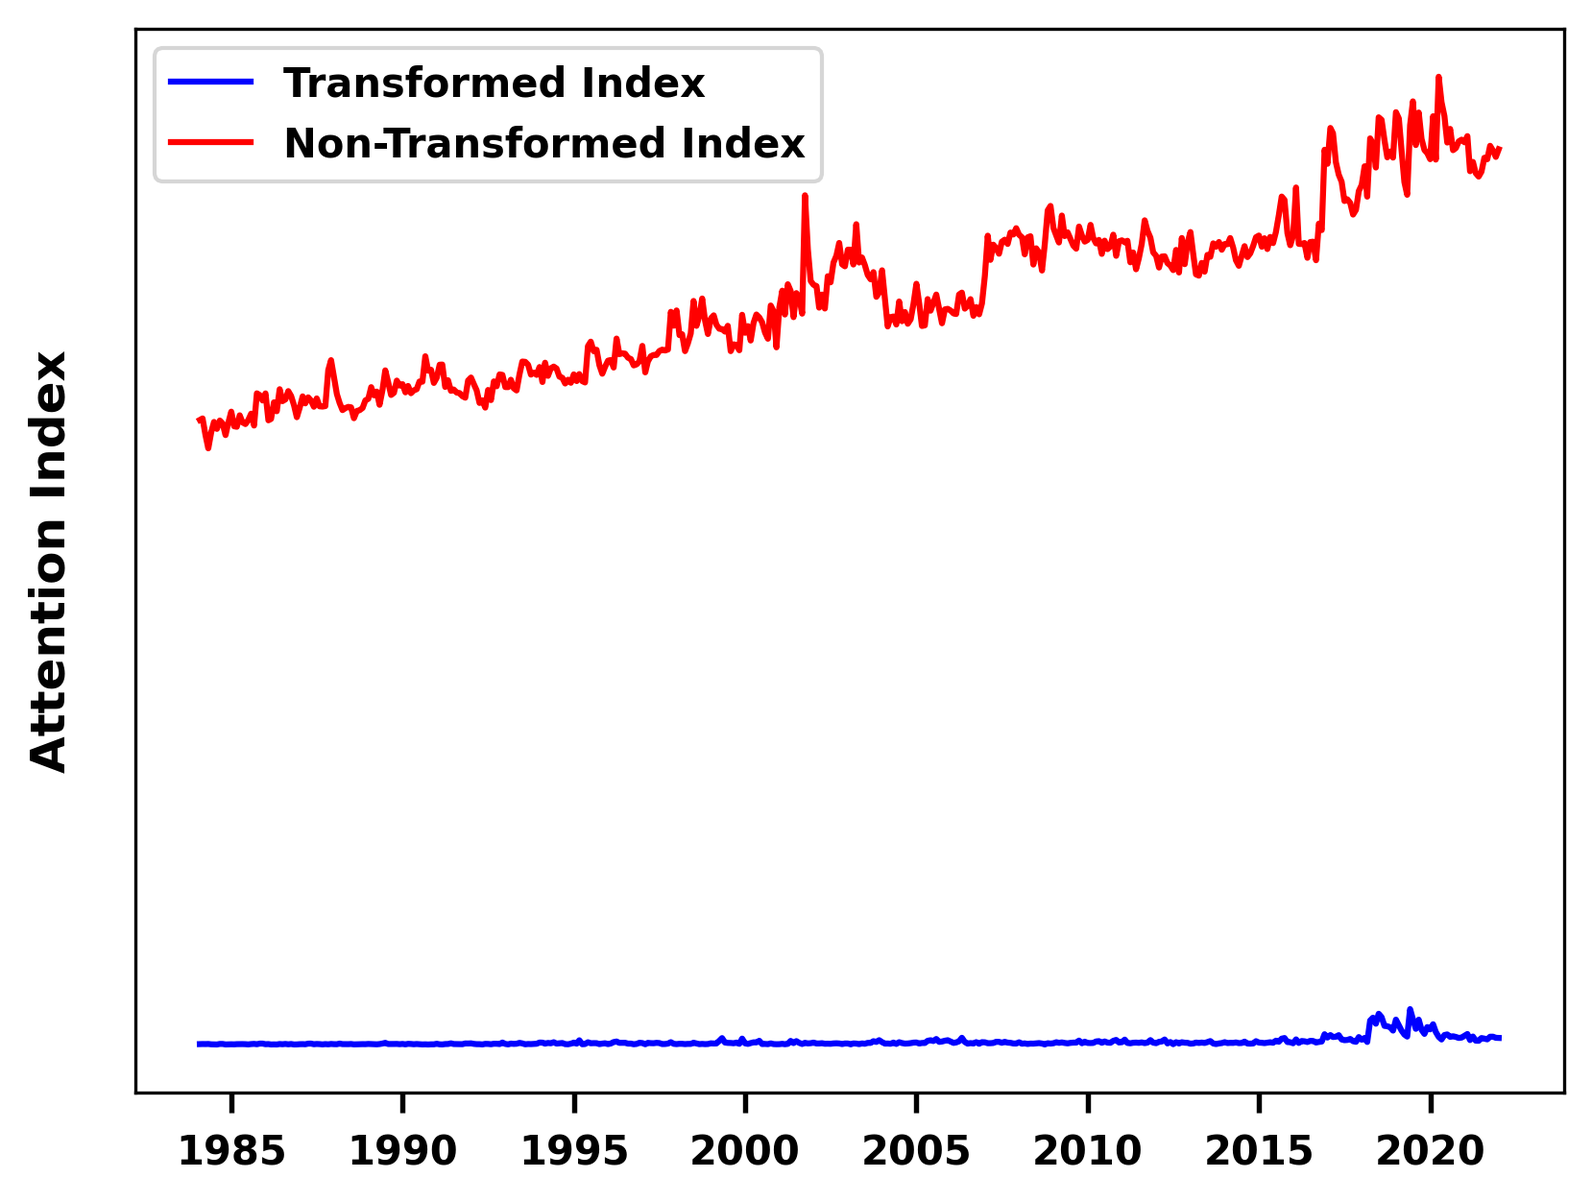
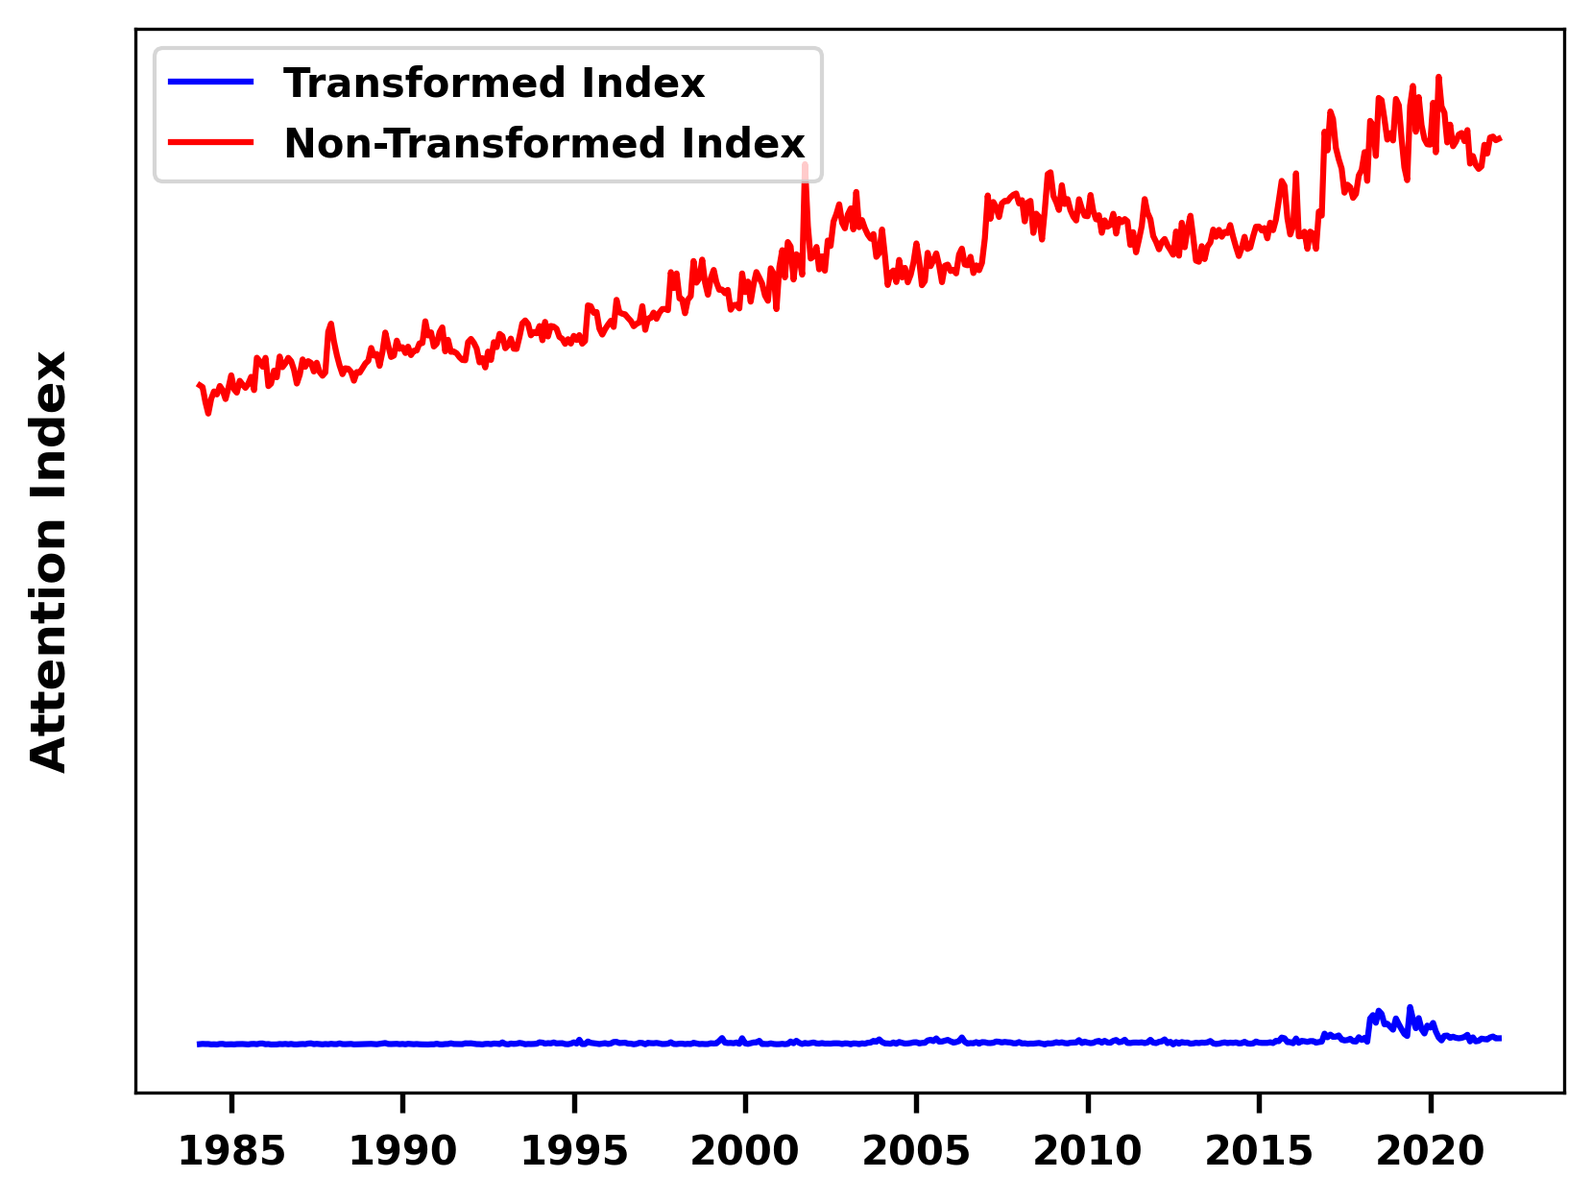
added stock market bubble and market crash

Changed region(s): [[0.123, 0.0623, 0.9536, 0.3738], [0.8613, 0.8411, 0.892, 0.8722]]

diff --git a/exec_research/class_generate/gen_emb.py b/exec_research/class_generate/gen_emb.py
@@ -357,66 +357,66 @@ if __name__ == "__main__":
     # # index = generate._join_index(index=index, file_path='esg_google_trend.parquet.brotli')
     # # generate.save(query=query, expanded_query=expanded_query, p_val=p_val, threshold=threshold, pearson=0, index_paper=index[['relu_score', 'official']], index_research=index[['relu_score', 'norm_score']], index_name_paper=['ESG', 'ESG (Google Trend)'], index_name_research=['Transformed', 'Non-Transformed'], output='esg_index')
 
-    # ------------------------------------------------------------------------------------------------------------------------------------------------------------------------------------------------
-    # ------------------------------------------------------------------------------------------------------------------------------------------------------------------------------------------------
-    print("-"*120)
-    query = 'ESG'
-    generate = GenEmb(query=query, info=False, vector_data=wsj_openai, vector_column=vector_column, article_data=wsj_art, interval=interval, p_val=p_val)
-    index, expanded_query, threshold = generate.generate_emb()
-    index = generate._join_index(index=index, file_path='esg_google_trend.parquet.brotli')
-    generate.save(query=query, expanded_query=expanded_query, p_val=p_val, threshold=threshold, pearson=0, index_paper=index[['relu_score', 'official']], index_research=index[['relu_score', 'norm_score']], index_name_paper=['ESG', 'ESG (Google Trend)'], index_name_research=['Transformed', 'Non-Transformed'], output='esg_index')
+    # # ------------------------------------------------------------------------------------------------------------------------------------------------------------------------------------------------
+    # # ------------------------------------------------------------------------------------------------------------------------------------------------------------------------------------------------
+    # print("-"*120)
+    # query = 'ESG'
+    # generate = GenEmb(query=query, info=False, vector_data=wsj_openai, vector_column=vector_column, article_data=wsj_art, interval=interval, p_val=p_val)
+    # index, expanded_query, threshold = generate.generate_emb()
+    # index = generate._join_index(index=index, file_path='esg_google_trend.parquet.brotli')
+    # generate.save(query=query, expanded_query=expanded_query, p_val=p_val, threshold=threshold, pearson=0, index_paper=index[['relu_score', 'official']], index_research=index[['relu_score', 'norm_score']], index_name_paper=['ESG', 'ESG (Google Trend)'], index_name_research=['Transformed', 'Non-Transformed'], output='esg_index')
+    #
+    # # ------------------------------------------------------------------------------------------------------------------------------------------------------------------------------------------------
+    # # ------------------------------------------------------------------------------------------------------------------------------------------------------------------------------------------------
+    # print("-"*120)
+    # query = 'US Economic Policy Uncertainty'
+    # generate = GenEmb(query=query, info=False, vector_data=wsj_openai, vector_column=vector_column, article_data=wsj_art, interval=interval, p_val=p_val)
+    # index, expanded_query, threshold = generate.generate_emb()
+    # index, pearson_corr = generate._compare_index(index=index, file_path='epu.parquet.brotli')
+    # generate.save(query=query, expanded_query=expanded_query, p_val=p_val, threshold=threshold, pearson=pearson_corr, index_paper=index[['relu_score', 'official']], index_research=index[['relu_score', 'norm_score']], index_name_paper=['US EPU', 'US EPU (Baker et al.)'], index_name_research=['Transformed', 'Non-Transformed'], output='usepu_index')
+    #
+    # # ------------------------------------------------------------------------------------------------------------------------------------------------------------------------------------------------
+    # # ------------------------------------------------------------------------------------------------------------------------------------------------------------------------------------------------
+    # print("-"*120)
+    # query = 'Inflation'
+    # generate = GenEmb(query=query, info=False, vector_data=wsj_openai, vector_column=vector_column, article_data=wsj_art, interval=interval, p_val=p_val)
+    # index, expanded_query, threshold = generate.generate_emb()
+    # index, pearson_corr = generate._compare_index(index=index, file_path='ir.parquet.brotli')
+    # generate.save(query=query, expanded_query=expanded_query, p_val=p_val, threshold=threshold, pearson=pearson_corr, index_paper=index[['relu_score', 'official']], index_research=index[['relu_score', 'norm_score']], index_name_paper=['Inflation', '5-Year Breakeven Inflation Rate (FRED)'], index_name_research=['Transformed', 'Non-Transformed'], output='inflation_index')
+    #
+    # # ------------------------------------------------------------------------------------------------------------------------------------------------------------------------------------------------
+    # # ------------------------------------------------------------------------------------------------------------------------------------------------------------------------------------------------
+    # print("-" * 120)
+    # query = 'Systemic Financial Stress'
+    # generate = GenEmb(query=query, info=False, vector_data=wsj_openai, vector_column=vector_column, article_data=wsj_art, interval=interval, p_val=p_val)
+    # index, expanded_query, threshold = generate.generate_emb()
+    # index, pearson_corr = generate._compare_index(index=index, file_path='fsi.parquet.brotli')
+    # generate.save(query=query, expanded_query=expanded_query, p_val=p_val, threshold=threshold, pearson=pearson_corr, index_paper=index[['relu_score', 'official']], index_research=index[['relu_score', 'norm_score']], index_name_paper=['Financial Stress', 'Financial Stress (Baker et al.)'], index_name_research=['Transformed', 'Non-Transformed'], output='fsi_index')
+    #
+    # # ------------------------------------------------------------------------------------------------------------------------------------------------------------------------------------------------
+    # # ------------------------------------------------------------------------------------------------------------------------------------------------------------------------------------------------
+    # print("-"*120)
+    # query = 'Economic Recession'
+    # generate = GenEmb(query=query, info=False, vector_data=wsj_openai, vector_column=vector_column, article_data=wsj_art, interval=interval, p_val=p_val)
+    # index, expanded_query, threshold = generate.generate_emb()
+    # index, pearson_corr = generate._compare_index(index=index, file_path='recession.parquet.brotli')
+    # generate.save(query=query, expanded_query=expanded_query, p_val=p_val, threshold=threshold, pearson=pearson_corr, index_paper=index[['relu_score', 'official']], index_research=index[['relu_score', 'norm_score']], index_name_paper=['Economic Recession', 'Economic Recession (Bybee et al.)'], index_name_research=['Transformed', 'Non-Transformed'], output='economicrecession_index')
 
-    # ------------------------------------------------------------------------------------------------------------------------------------------------------------------------------------------------
-    # ------------------------------------------------------------------------------------------------------------------------------------------------------------------------------------------------
-    print("-"*120)
-    query = 'US Economic Policy Uncertainty'
-    generate = GenEmb(query=query, info=False, vector_data=wsj_openai, vector_column=vector_column, article_data=wsj_art, interval=interval, p_val=p_val)
-    index, expanded_query, threshold = generate.generate_emb()
-    index, pearson_corr = generate._compare_index(index=index, file_path='epu.parquet.brotli')
-    generate.save(query=query, expanded_query=expanded_query, p_val=p_val, threshold=threshold, pearson=pearson_corr, index_paper=index[['relu_score', 'official']], index_research=index[['relu_score', 'norm_score']], index_name_paper=['US EPU', 'US EPU (Baker et al.)'], index_name_research=['Transformed', 'Non-Transformed'], output='usepu_index')
-
-    # ------------------------------------------------------------------------------------------------------------------------------------------------------------------------------------------------
-    # ------------------------------------------------------------------------------------------------------------------------------------------------------------------------------------------------
-    print("-"*120)
-    query = 'Inflation'
-    generate = GenEmb(query=query, info=False, vector_data=wsj_openai, vector_column=vector_column, article_data=wsj_art, interval=interval, p_val=p_val)
-    index, expanded_query, threshold = generate.generate_emb()
-    index, pearson_corr = generate._compare_index(index=index, file_path='ir.parquet.brotli')
-    generate.save(query=query, expanded_query=expanded_query, p_val=p_val, threshold=threshold, pearson=pearson_corr, index_paper=index[['relu_score', 'official']], index_research=index[['relu_score', 'norm_score']], index_name_paper=['Inflation', '5-Year Breakeven Inflation Rate (FRED)'], index_name_research=['Transformed', 'Non-Transformed'], output='inflation_index')
-
-    # ------------------------------------------------------------------------------------------------------------------------------------------------------------------------------------------------
-    # ------------------------------------------------------------------------------------------------------------------------------------------------------------------------------------------------
-    print("-" * 120)
-    query = 'Systemic Financial Stress'
-    generate = GenEmb(query=query, info=False, vector_data=wsj_openai, vector_column=vector_column, article_data=wsj_art, interval=interval, p_val=p_val)
-    index, expanded_query, threshold = generate.generate_emb()
-    index, pearson_corr = generate._compare_index(index=index, file_path='fsi.parquet.brotli')
-    generate.save(query=query, expanded_query=expanded_query, p_val=p_val, threshold=threshold, pearson=pearson_corr, index_paper=index[['relu_score', 'official']], index_research=index[['relu_score', 'norm_score']], index_name_paper=['Financial Stress', 'Financial Stress (Baker et al.)'], index_name_research=['Transformed', 'Non-Transformed'], output='fsi_index')
-
-    # ------------------------------------------------------------------------------------------------------------------------------------------------------------------------------------------------
-    # ------------------------------------------------------------------------------------------------------------------------------------------------------------------------------------------------
-    print("-"*120)
-    query = 'Economic Recession'
-    generate = GenEmb(query=query, info=False, vector_data=wsj_openai, vector_column=vector_column, article_data=wsj_art, interval=interval, p_val=p_val)
-    index, expanded_query, threshold = generate.generate_emb()
-    index, pearson_corr = generate._compare_index(index=index, file_path='recession.parquet.brotli')
-    generate.save(query=query, expanded_query=expanded_query, p_val=p_val, threshold=threshold, pearson=pearson_corr, index_paper=index[['relu_score', 'official']], index_research=index[['relu_score', 'norm_score']], index_name_paper=['Economic Recession', 'Economic Recession (Bybee et al.)'], index_name_research=['Transformed', 'Non-Transformed'], output='economicrecession_index')
-
-    # ------------------------------------------------------------------------------------------------------------------------------------------------------------------------------------------------
-    # ------------------------------------------------------------------------------------------------------------------------------------------------------------------------------------------------
-    print("-" * 120)
-    query = 'Market Crash'
-    generate = GenEmb(query=query, info=False, vector_data=wsj_openai, vector_column=vector_column, article_data=wsj_art, interval=interval, p_val=p_val)
-    index, expanded_query, threshold = generate.generate_emb()
-    generate.save(query=query, expanded_query=expanded_query, p_val=p_val, threshold=threshold, pearson=0, index_paper=index[['relu_score']], index_research=index[['relu_score', 'norm_score']], index_name_paper=['US-China Trade War'], index_name_research=['Transformed', 'Non-Transformed'], output='uschinatradewar_index')
-
-    # ------------------------------------------------------------------------------------------------------------------------------------------------------------------------------------------------
-    # ------------------------------------------------------------------------------------------------------------------------------------------------------------------------------------------------
-    print("-" * 120)
-    query = 'Stock Market Bubble'
-    generate = GenEmb(query=query, info=False, vector_data=wsj_openai, vector_column=vector_column, article_data=wsj_art, interval=interval, p_val=p_val)
-    index, expanded_query, threshold = generate.generate_emb()
-    generate.save(query=query, expanded_query=expanded_query, p_val=p_val, threshold=threshold, pearson=0, index_paper=index[['relu_score']], index_research=index[['relu_score', 'norm_score']], index_name_paper=['US-China Trade War'], index_name_research=['Transformed', 'Non-Transformed'], output='uschinatradewar_index')
+    # # ------------------------------------------------------------------------------------------------------------------------------------------------------------------------------------------------
+    # # ------------------------------------------------------------------------------------------------------------------------------------------------------------------------------------------------
+    # print("-" * 120)
+    # query = 'Market Crash'
+    # generate = GenEmb(query=query, info=False, vector_data=wsj_openai, vector_column=vector_column, article_data=wsj_art, interval=interval, p_val=p_val)
+    # index, expanded_query, threshold = generate.generate_emb()
+    # generate.save(query=query, expanded_query=expanded_query, p_val=p_val, threshold=threshold, pearson=0, index_paper=index[['relu_score']], index_research=index[['relu_score', 'norm_score']], index_name_paper=['Market Crash'], index_name_research=['Transformed', 'Non-Transformed'], output='marketcrash_index')
+    #
+    # # ------------------------------------------------------------------------------------------------------------------------------------------------------------------------------------------------
+    # # ------------------------------------------------------------------------------------------------------------------------------------------------------------------------------------------------
+    # print("-" * 120)
+    # query = 'Stock Market Bubble'
+    # generate = GenEmb(query=query, info=False, vector_data=wsj_openai, vector_column=vector_column, article_data=wsj_art, interval=interval, p_val=p_val)
+    # index, expanded_query, threshold = generate.generate_emb()
+    # generate.save(query=query, expanded_query=expanded_query, p_val=p_val, threshold=threshold, pearson=0, index_paper=index[['relu_score']], index_research=index[['relu_score', 'norm_score']], index_name_paper=['Stock Market Bubble'], index_name_research=['Transformed', 'Non-Transformed'], output='stockmarketbubble_index')
 
     # ------------------------------------------------------------------------------------------------------------------------------------------------------------------------------------------------
     # ------------------------------------------------------------------------------------------------------------------------------------------------------------------------------------------------
@@ -426,26 +426,26 @@ if __name__ == "__main__":
     index, expanded_query, threshold = generate.generate_emb()
     generate.save(query=query, expanded_query=expanded_query, p_val=p_val, threshold=threshold, pearson=0, index_paper=index[['relu_score']], index_research=index[['relu_score', 'norm_score']], index_name_paper=['US-China Trade War'], index_name_research=['Transformed', 'Non-Transformed'], output='uschinatradewar_index')
 
-    # ------------------------------------------------------------------------------------------------------------------------------------------------------------------------------------------------
-    # ------------------------------------------------------------------------------------------------------------------------------------------------------------------------------------------------
-    print("-"*120)
-    query = 'Artificial Intelligence'
-    generate = GenEmb(query=query, info=False, vector_data=wsj_openai, vector_column=vector_column, article_data=wsj_art, interval=interval, p_val=p_val)
-    index, expanded_query, threshold = generate.generate_emb()
-    generate.save(query=query, expanded_query=expanded_query, p_val=p_val, threshold=threshold, pearson=0, index_paper=index[['relu_score']], index_research=index[['relu_score', 'norm_score']], index_name_paper=['Artificial Intelligence'], index_name_research=['Transformed', 'Non-Transformed'], output='ai_index')
-
-    # ------------------------------------------------------------------------------------------------------------------------------------------------------------------------------------------------
-    # ------------------------------------------------------------------------------------------------------------------------------------------------------------------------------------------------
-    print("-"*120)
-    query = 'Blockchain'
-    generate = GenEmb(query=query, info=False, vector_data=wsj_openai, vector_column=vector_column, article_data=wsj_art, interval=interval, p_val=p_val)
-    index, expanded_query, threshold = generate.generate_emb()
-    generate.save(query=query, expanded_query=expanded_query, p_val=p_val, threshold=threshold, pearson=0, index_paper=index[['relu_score']], index_research=index[['relu_score', 'norm_score']], index_name_paper=['Blockchain'], index_name_research=['Transformed', 'Non-Transformed'], output='blockchain_index')
-
-    # ------------------------------------------------------------------------------------------------------------------------------------------------------------------------------------------------
-    # ------------------------------------------------------------------------------------------------------------------------------------------------------------------------------------------------
-    print("-"*120)
-    query = 'COVID-19'
-    generate = GenEmb(query=query, info=False, vector_data=wsj_openai, vector_column=vector_column, article_data=wsj_art, interval=interval, p_val=p_val)
-    index, expanded_query, threshold = generate.generate_emb()
-    generate.save(query=query, expanded_query=expanded_query, p_val=p_val, threshold=threshold, pearson=0, index_paper=index[['relu_score']], index_research=index[['relu_score', 'norm_score']], index_name_paper=['COVID-19'], index_name_research=['Transformed', 'Non-Transformed'], output='covid19_index')
+    # # ------------------------------------------------------------------------------------------------------------------------------------------------------------------------------------------------
+    # # ------------------------------------------------------------------------------------------------------------------------------------------------------------------------------------------------
+    # print("-"*120)
+    # query = 'Artificial Intelligence'
+    # generate = GenEmb(query=query, info=False, vector_data=wsj_openai, vector_column=vector_column, article_data=wsj_art, interval=interval, p_val=p_val)
+    # index, expanded_query, threshold = generate.generate_emb()
+    # generate.save(query=query, expanded_query=expanded_query, p_val=p_val, threshold=threshold, pearson=0, index_paper=index[['relu_score']], index_research=index[['relu_score', 'norm_score']], index_name_paper=['Artificial Intelligence'], index_name_research=['Transformed', 'Non-Transformed'], output='ai_index')
+    #
+    # # ------------------------------------------------------------------------------------------------------------------------------------------------------------------------------------------------
+    # # ------------------------------------------------------------------------------------------------------------------------------------------------------------------------------------------------
+    # print("-"*120)
+    # query = 'Blockchain'
+    # generate = GenEmb(query=query, info=False, vector_data=wsj_openai, vector_column=vector_column, article_data=wsj_art, interval=interval, p_val=p_val)
+    # index, expanded_query, threshold = generate.generate_emb()
+    # generate.save(query=query, expanded_query=expanded_query, p_val=p_val, threshold=threshold, pearson=0, index_paper=index[['relu_score']], index_research=index[['relu_score', 'norm_score']], index_name_paper=['Blockchain'], index_name_research=['Transformed', 'Non-Transformed'], output='blockchain_index')
+    #
+    # # ------------------------------------------------------------------------------------------------------------------------------------------------------------------------------------------------
+    # # ------------------------------------------------------------------------------------------------------------------------------------------------------------------------------------------------
+    # print("-"*120)
+    # query = 'COVID-19'
+    # generate = GenEmb(query=query, info=False, vector_data=wsj_openai, vector_column=vector_column, article_data=wsj_art, interval=interval, p_val=p_val)
+    # index, expanded_query, threshold = generate.generate_emb()
+    # generate.save(query=query, expanded_query=expanded_query, p_val=p_val, threshold=threshold, pearson=0, index_paper=index[['relu_score']], index_research=index[['relu_score', 'norm_score']], index_name_paper=['COVID-19'], index_name_research=['Transformed', 'Non-Transformed'], output='covid19_index')
